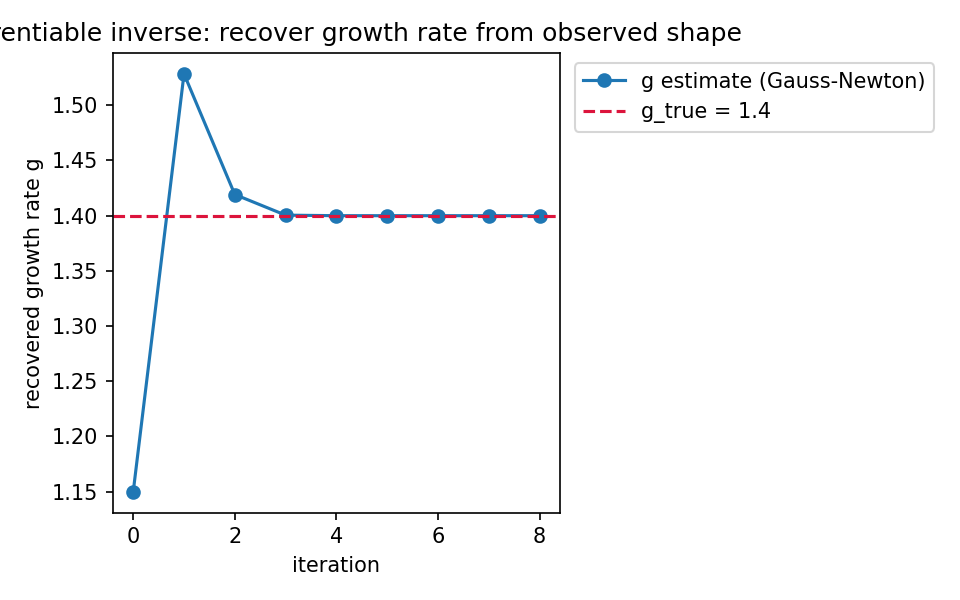
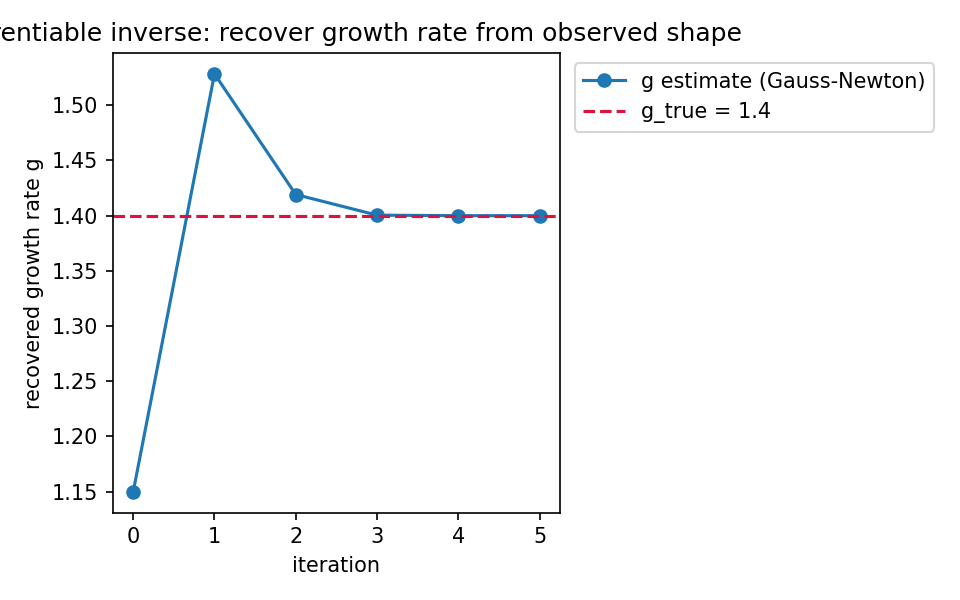
Consolidation: determinism gate, numpy↔C++ law consistency, single code paths
- verify [D]: numpy determinism gate (bit-identical, was C++-only) — closes the
  Python-side reproducibility gap.
- [1p] forward gate now also runs Hencky (the law the C++ oracle uses) — numpy↔C++
  law consistency (addresses NeoHookean-only-gate misalignment).
- results.fig_inverse now calls diff.infer_growth (single code path; no reimplemented
  Gauss-Newton) — figure and gate share one function.
- infer_growth: return_history option.
- experiments/*: EXPERIMENTAL/SUPERSEDED quarantine banner.
- step_vjp: documented the advect=False x_b=0 contract.

Extensibility note: GrowthDriver (g(x)) + StateCotangent deferred until their 2nd
consumer (numpy morphogenesis / diffusion) — not built speculatively (discipline).

diff --git a/python/morphompm/integrate.py b/python/morphompm/integrate.py
@@ -69,14 +69,17 @@ def forward_physics_gate():
     expand toward det F = g^3 (C++/analytic oracle). FD gates can't catch a wrong
     forward — this can (it caught the HB pressure-sign bug, 2026-07-01)."""
     from .config import SimConfig
-    from .constitutive import NeoHookean, HerschelBulkley
+    from .constitutive import NeoHookean, Hencky, HerschelBulkley
     cfg = SimConfig(N=12, dx=0.05, dt=1.0e-3, damping=0.05, sp=0.03)
     g, n_steps = 1.5, 150
     c = np.arange(0.30 - 0.015, 0.30 + 0.015 + 1e-9, 0.03)
     pts = np.array([(x, y, z) for x in c for y in c for z in c])   # 8-particle cube
     print("== [1p] forward physics: free-swell det F -> g^3 (guards forward correctness) ==")
     ok = True
-    for name, model in [("NeoHookean", NeoHookean(cfg.material)), ("HerschelBulkley", HerschelBulkley())]:
+    # Hencky included: it is the law the C++ oracle runs (numpy↔C++ law consistency).
+    for name, model in [("NeoHookean", NeoHookean(cfg.material)),
+                        ("Hencky", Hencky(cfg.material)),
+                        ("HerschelBulkley", HerschelBulkley())]:
         st = iso_growth_state(pts, g)
         st, _ = rollout(st, model, cfg, n_steps, advect=True)
         d = float(np.mean([np.linalg.det(st.F[p]) for p in range(st.n)]))
@@ -84,6 +87,27 @@ def forward_physics_gate():
         print(f"    {name}: mean det F = {d:.4f} (toward g^3={g**3:.3f})  [{'ok' if good else 'FAIL'}]")
         ok &= good
     return 0 if ok else 1
+
+
+def determinism_gate():
+    """Reproducibility pillar: identical numpy runs must be bit-identical (single
+    thread, no RNG in the physics). Guards the determinism claim in Python."""
+    from .config import SimConfig
+    from .constitutive import NeoHookean
+    cfg = SimConfig()
+    model = NeoHookean(cfg.material)
+    pts = np.array([[0.40, 0.40, 0.40], [0.42, 0.40, 0.41], [0.40, 0.43, 0.40],
+                    [0.41, 0.40, 0.44], [0.44, 0.44, 0.43]])
+
+    def run():
+        st, _ = rollout(iso_growth_state(pts, 1.3), model, cfg, 3, advect=True)
+        return st.F.copy()
+
+    a, b = run(), run()
+    d = float(np.max(np.abs(a - b)))
+    print("== [D] determinism: identical numpy runs bit-identical ==")
+    print(f"    max|F_run1 - F_run2| = {d:.1e}  [{'ok' if d == 0.0 else 'FAIL'}]")
+    return 0 if d == 0.0 else 1
 
 
 def main():

diff --git a/scripts/results.py b/scripts/results.py
@@ -11,7 +11,8 @@ import matplotlib.pyplot as plt
 
 from morphompm.config import SimConfig
 from morphompm.constitutive import NeoHookean
-from morphompm.integrate import dloss_dg, rollout, iso_growth_state, loss_detF
+from morphompm.integrate import rollout, iso_growth_state, loss_detF
+from morphompm.diff import infer_growth
 
 ROOT = os.path.dirname(os.path.dirname(os.path.abspath(__file__)))
 FIG = os.path.join(ROOT, "outputs", "figures")
@@ -33,11 +34,8 @@ def fig_inverse():
     n_steps, g_true = 3, 1.40
     st, _ = rollout(iso_growth_state(PTS, g_true), model, cfg, n_steps)
     target = loss_detF(st.F)
-    g, hist = 1.15, [1.15]
-    for _ in range(8):
-        loss, dg = dloss_dg(PTS, model, cfg, g, n_steps, advect=False)
-        g -= (loss - target) / dg
-        hist.append(g)
+    # share the SAME code path as the [6] gate — no reimplemented loop
+    _, _, hist = infer_growth(PTS, model, cfg, target, n_steps, g_init=1.15, return_history=True)
     its = list(range(len(hist)))
     with open(os.path.join(FIG, "inverse_recovery.csv"), "w", newline="") as f:
         w = csv.writer(f); w.writerow(["iteration", "g_estimate"])

diff --git a/python/morphompm/diff.py b/python/morphompm/diff.py
@@ -6,8 +6,10 @@ import numpy as np
 from .integrate import dloss_dg, rollout, iso_growth_state, loss_detF
 
 
-def infer_growth(pts, model, cfg, target, n_steps, g_init, advect=False, iters=20, tol=1e-9):
+def infer_growth(pts, model, cfg, target, n_steps, g_init, advect=False, iters=20,
+                 tol=1e-9, return_history=False):
     g = g_init
+    hist = [g_init]
     for it in range(iters):
         loss, dg = dloss_dg(pts, model, cfg, g, n_steps, advect)
         resid = loss - target
@@ -18,7 +20,8 @@ def infer_growth(pts, model, cfg, target, n_steps, g_init, advect=False, iters=2
             continue
         step = resid / dg
         g -= max(-0.5, min(0.5, step))                 # damp: cap |Δg| for robustness
-    return g, it + 1
+        hist.append(g)
+    return (g, it + 1, hist) if return_history else (g, it + 1)
 
 
 def main():

diff --git a/python/morphompm/verify.py b/python/morphompm/verify.py
@@ -28,7 +28,10 @@ def run() -> int:
     print("\n### [8] io: canonical <-> standard-format round-trip ###")
     o_fail = io.main()
 
-    ok = all(f == 0 for f in (c_fail, t_fail, p_fail, i_fail, d_fail, o_fail))
+    print("\n### [D] determinism: identical numpy runs bit-identical ###")
+    det_fail = integrate.determinism_gate()
+
+    ok = all(f == 0 for f in (c_fail, t_fail, p_fail, i_fail, d_fail, o_fail, det_fail))
     print("\n############################################################")
     print("PIPELINE VERIFY:", "ALL GATES PASS" if ok else "FAILURE")
     print("############################################################")

diff --git a/python/experiments/diag.py b/python/experiments/diag.py
@@ -1,3 +1,7 @@
+# EXPERIMENTAL / SUPERSEDED — not part of the morphompm package. Taichi autodiff
+# segfaults on matrix-MPM adjoints (see docs/PIPELINE.md); superseded by the numpy
+# package (morphompm.integrate/diff). Kept for the record; do NOT build on this.
+
 import time, sys
 import numpy as np
 import taichi as ti

diff --git a/python/experiments/diff_growth.py b/python/experiments/diff_growth.py
@@ -1,3 +1,7 @@
+# EXPERIMENTAL / SUPERSEDED — not part of the morphompm package. Taichi autodiff
+# segfaults on matrix-MPM adjoints (see docs/PIPELINE.md); superseded by the numpy
+# package (morphompm.integrate/diff). Kept for the record; do NOT build on this.
+
 """morphompm — differentiable trajectory: gradient through the full multi-step
 growth-MPM sim, and inverse recovery of the growth rate from observed shape.
 

diff --git a/python/experiments/diff_growth_2d.py b/python/experiments/diff_growth_2d.py
@@ -1,3 +1,7 @@
+# EXPERIMENTAL / SUPERSEDED — not part of the morphompm package. Taichi autodiff
+# segfaults on matrix-MPM adjoints (see docs/PIPELINE.md); superseded by the numpy
+# package (morphompm.integrate/diff). Kept for the record; do NOT build on this.
+
 """morphompm — differentiable trajectory in 2D (proof that the differentiable
 growth + inverse-design machinery works).
 

diff --git a/python/experiments/growth_mpm.py b/python/experiments/growth_mpm.py
@@ -1,3 +1,7 @@
+# EXPERIMENTAL / SUPERSEDED — not part of the morphompm package. Taichi autodiff
+# segfaults on matrix-MPM adjoints (see docs/PIPELINE.md); superseded by the numpy
+# package (morphompm.integrate/diff). Kept for the record; do NOT build on this.
+
 """morphompm — Taichi port of the morphoelastic growth MLS-MPM (v1 forward),
 plus the differentiability the C++ path would have to hand-roll.
 

diff --git a/python/morphompm/transfer.py b/python/morphompm/transfer.py
@@ -80,6 +80,10 @@ def step(state, model, cfg, advect=True):
 
 
 def step_vjp(cache, xn_b, vn_b, Cn_b, Fn_b, Fgn_b, advect=True):
+    """Reverse of step(). CONTRACT: with advect=False, x is a FROZEN input and x_b
+    is returned as 0 — NOT the true ∂/∂x (the forward's weights still depend on x).
+    Valid only when the caller needs no ∂/∂x in fixed mode (all current gates: loss
+    on F). Use advect=True for the full ∂/∂x. Must match the advect used in step()."""
     state, cfg, model, gm, gv, pc, Cn = cache
     x, v, C, F, Fg = state.x, state.v, state.C, state.F, state.Fg
     n = state.n

diff --git a/outputs/figures/inverse_recovery_desc.md b/outputs/figures/inverse_recovery_desc.md
@@ -13,7 +13,7 @@ Gradient-based recovery of the growth rate g from an observed final shape (Σ de
 - Y: recovered g (target g_true=1.40)
 
 ## Key Observations
-Converges to g_true in 8 iterations; final |error| = 0.0e+00.
+Converges to g_true in 5 iterations; final |error| = 1.4e-13.
 
 ## Reproduction
 python scripts/results.py